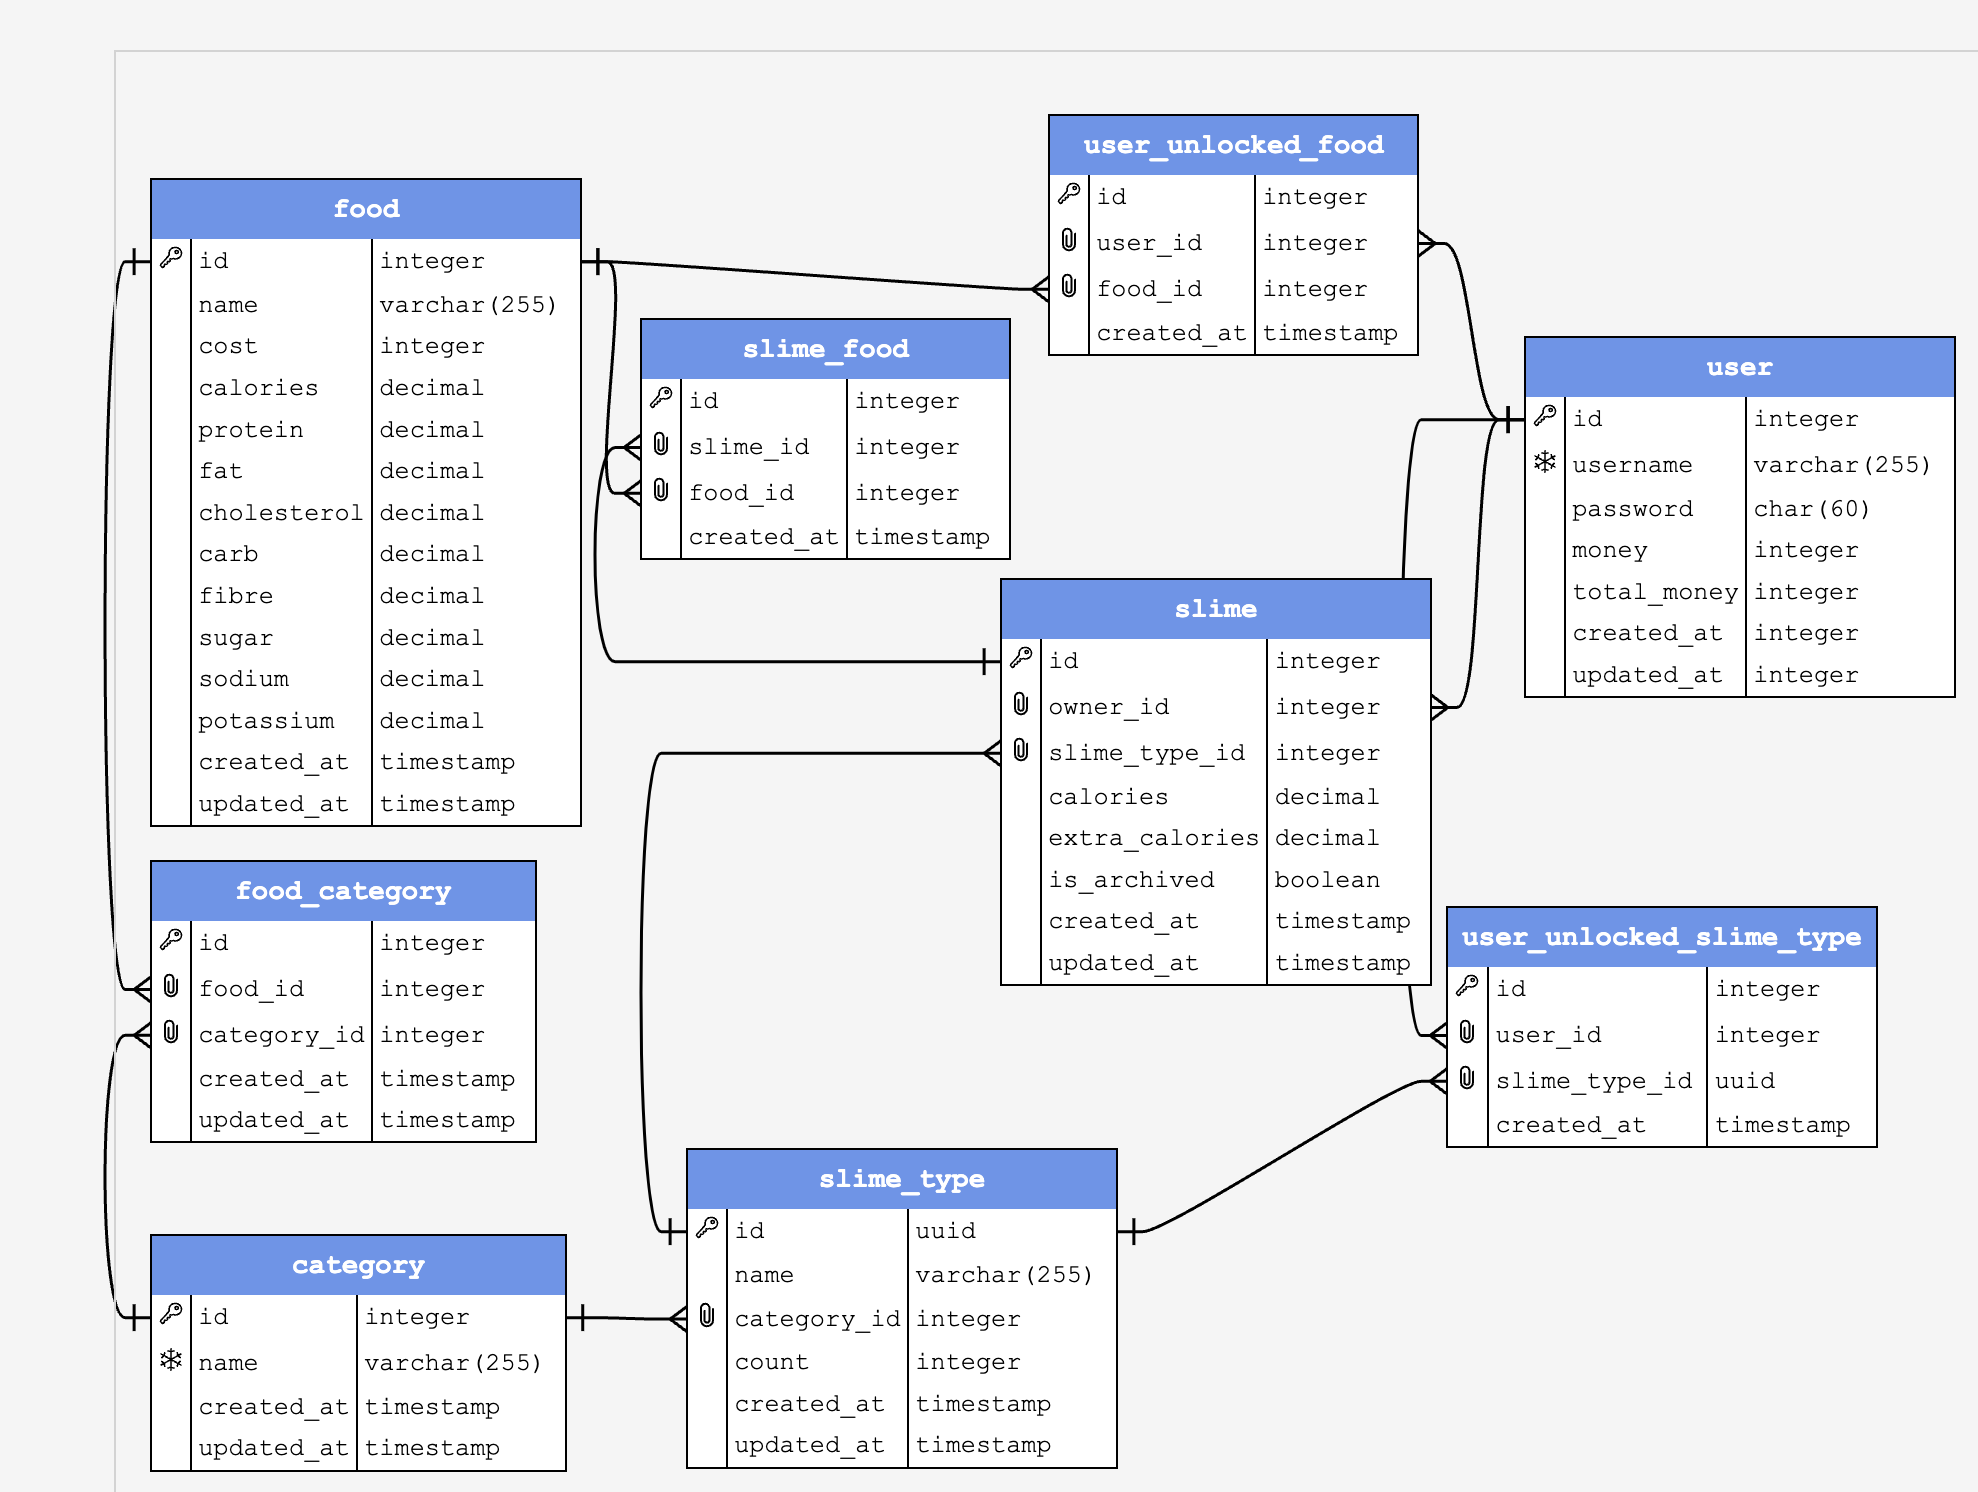
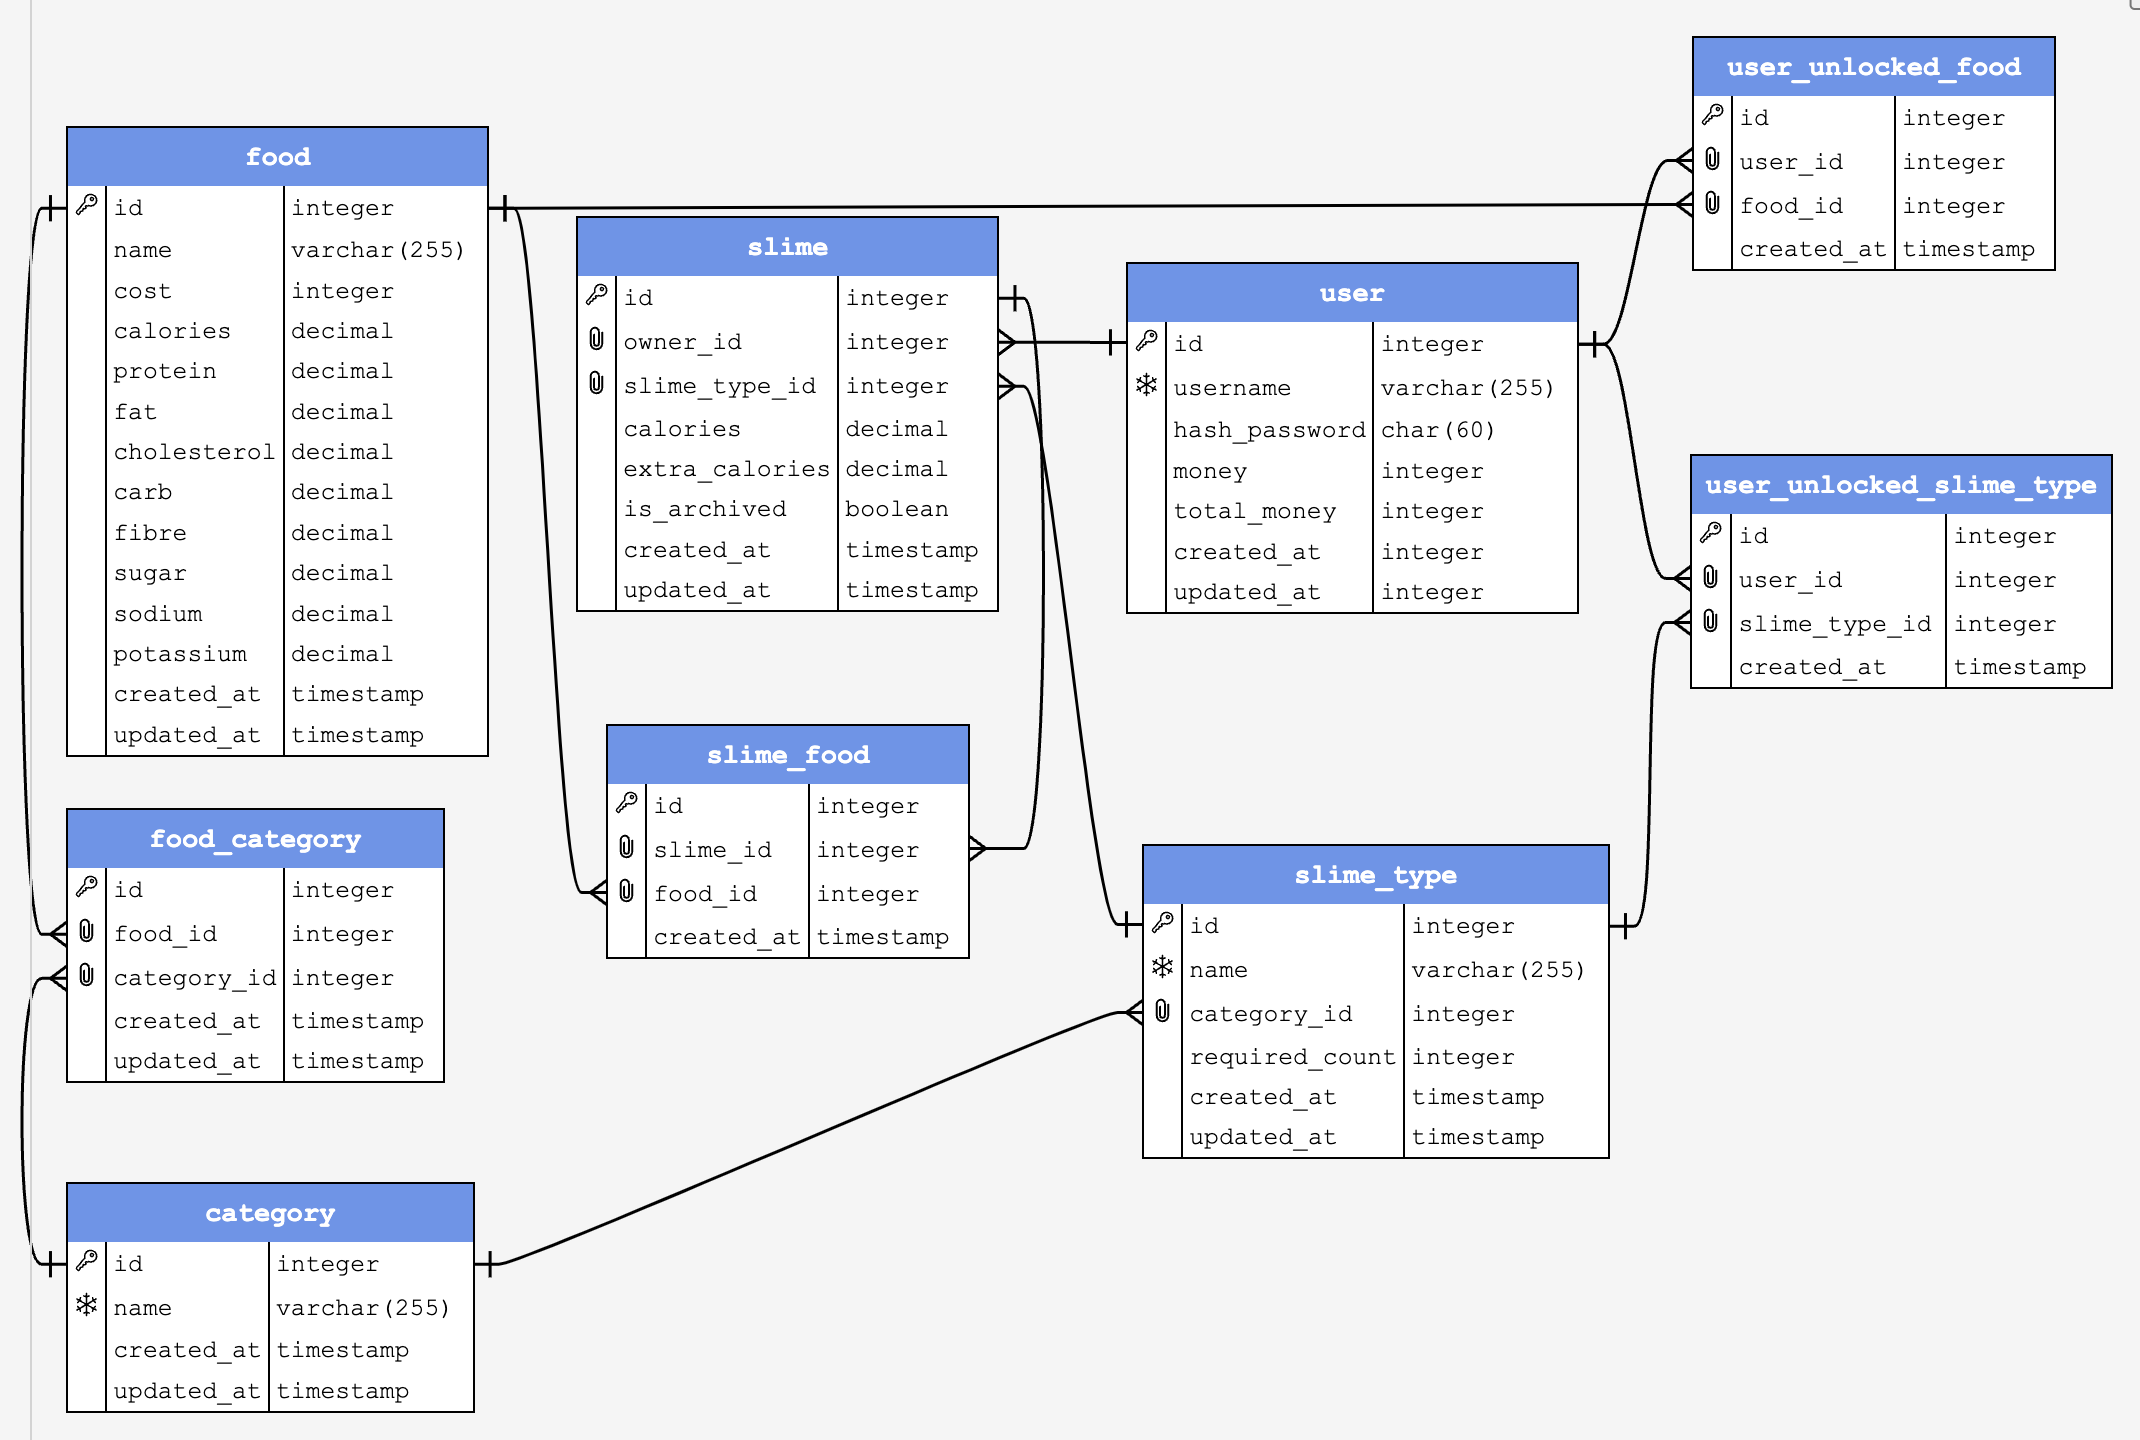
chore: updated erd and implements migration file
added category table for food for the AI component. changed slime_type id to uuid to protect from players malicious acts

Changed region(s): [[0.0, 0.0, 1.0, 1.0], [0.8635, 0.75, 0.956, 0.7812], [0.7093, 0.4688, 0.7401, 0.5]]

diff --git a/src/db/migrations/20231101104629_init.ts b/src/db/migrations/20231101104629_init.ts
@@ -1,0 +1,111 @@
+import { Knex } from "knex";
+
+export async function up(knex: Knex): Promise<void> {
+  await knex.raw('CREATE EXTENSION IF NOT EXISTS "uuid-ossp"');
+  if (!(await knex.schema.hasTable("user"))) {
+    await knex.schema.createTable("user", (table) => {
+      table.increments();
+      table.string("username", 255).notNullable().unique();
+      table.specificType("hash_password", "char(60)").notNullable().checkLength("=", 60);
+      table.integer("money").notNullable().defaultTo(0);
+      table.integer("total_money").notNullable().defaultTo(0);
+      table.timestamps(false, true);
+    });
+  }
+
+  if (!(await knex.schema.hasTable("category"))) {
+    await knex.schema.createTable("category", (table) => {
+      table.increments("id");
+      table.string("name", 255).notNullable().unique();
+      table.timestamps(false, true);
+    });
+  }
+
+  if (!(await knex.schema.hasTable("food"))) {
+    await knex.schema.createTable("food", (table) => {
+      table.increments("id");
+      table.string("name", 255).notNullable();
+      table.integer("cost").notNullable();
+      table.decimal("calories").notNullable();
+      table.decimal("protein").notNullable();
+      table.decimal("fat").notNullable();
+      table.decimal("cholesterol").notNullable();
+      table.decimal("carbohydrates").notNullable();
+      table.decimal("fibre").notNullable();
+      table.decimal("sugar").notNullable();
+      table.decimal("sodium").notNullable();
+      table.decimal("potassium").notNullable();
+      table.timestamps(false, true);
+    });
+  }
+
+  if (!(await knex.schema.hasTable("food_category"))) {
+    await knex.schema.createTable("food_category", (table) => {
+      table.increments("id");
+      table.integer("food_id").unsigned().notNullable().references("food.id");
+      table.integer("category_id").unsigned().notNullable().references("category.id");
+      table.timestamps(false, true);
+    });
+  }
+
+  if (!(await knex.schema.hasTable("slime_type"))) {
+    await knex.schema.createTable("slime_type", (table) => {
+      table.uuid("id", { primaryKey: true }).defaultTo(knex.raw("uuid_generate_v4()"));
+      table.string("name", 255).notNullable().unique();
+      table.integer("category_id").unsigned().notNullable().references("category.id");
+      table.integer("required_count").notNullable();
+      table.timestamps(false, true);
+    });
+  }
+
+  if (!(await knex.schema.hasTable("slime"))) {
+    await knex.schema.createTable("slime", (table) => {
+      table.increments("id");
+      table.integer("owner_id").unsigned().notNullable().references("user.id");
+      table.uuid("slime_type_id").notNullable().references("slime_type.id");
+      table.decimal("calories").notNullable().defaultTo(0);
+      table.decimal("extra_calories").notNullable().defaultTo(0);
+      table.boolean("is_archived").notNullable().defaultTo(false);
+      table.timestamps(false, true);
+    });
+  }
+
+  if (!(await knex.schema.hasTable("slime_food"))) {
+    await knex.schema.createTable("slime_food", (table) => {
+      table.increments("id");
+      table.integer("slime_id").unsigned().notNullable().references("slime.id");
+      table.integer("food_id").unsigned().notNullable().references("food.id");
+      table.timestamp("created_at").notNullable().defaultTo(knex.fn.now());
+    });
+  }
+
+  if (!(await knex.schema.hasTable("user_unlocked_food"))) {
+    await knex.schema.createTable("user_unlocked_food", (table) => {
+      table.increments("id");
+      table.integer("user_id").unsigned().notNullable().references("user.id");
+      table.integer("food_id").unsigned().notNullable().references("food.id");
+      table.timestamp("created_at").notNullable().defaultTo(knex.fn.now());
+    });
+  }
+
+  if (!(await knex.schema.hasTable("user_unlocked_slime_type"))) {
+    await knex.schema.createTable("user_unlocked_slime_type", (table) => {
+      table.increments("id");
+      table.integer("user_id").unsigned().notNullable().references("user.id");
+      table.uuid("slime_type_id").notNullable().references("slime_type.id");
+      table.timestamp("created_at").notNullable().defaultTo(knex.fn.now());
+    });
+  }
+}
+
+export async function down(knex: Knex): Promise<void> {
+  await knex.schema.dropTableIfExists("user_unlocked_slime_type");
+  await knex.schema.dropTableIfExists("user_unlocked_food");
+  await knex.schema.dropTableIfExists("slime_food");
+  await knex.schema.dropTableIfExists("slime");
+  await knex.schema.dropTableIfExists("slime_type");
+  await knex.schema.dropTableIfExists("food_category");
+  await knex.schema.dropTableIfExists("food");
+  await knex.schema.dropTableIfExists("category");
+  await knex.schema.dropTableIfExists("user");
+}
